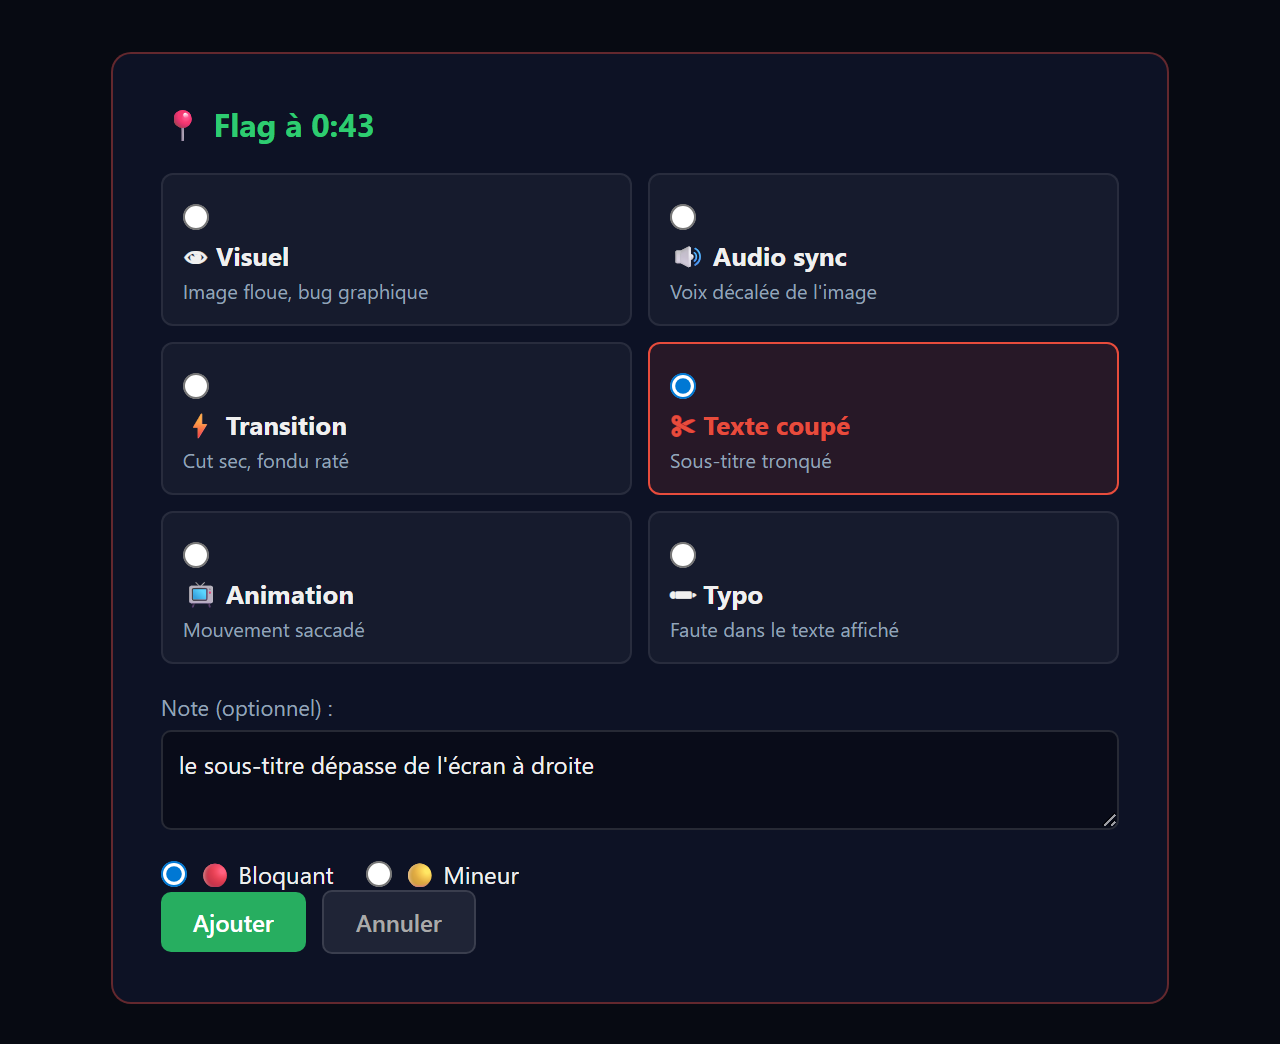
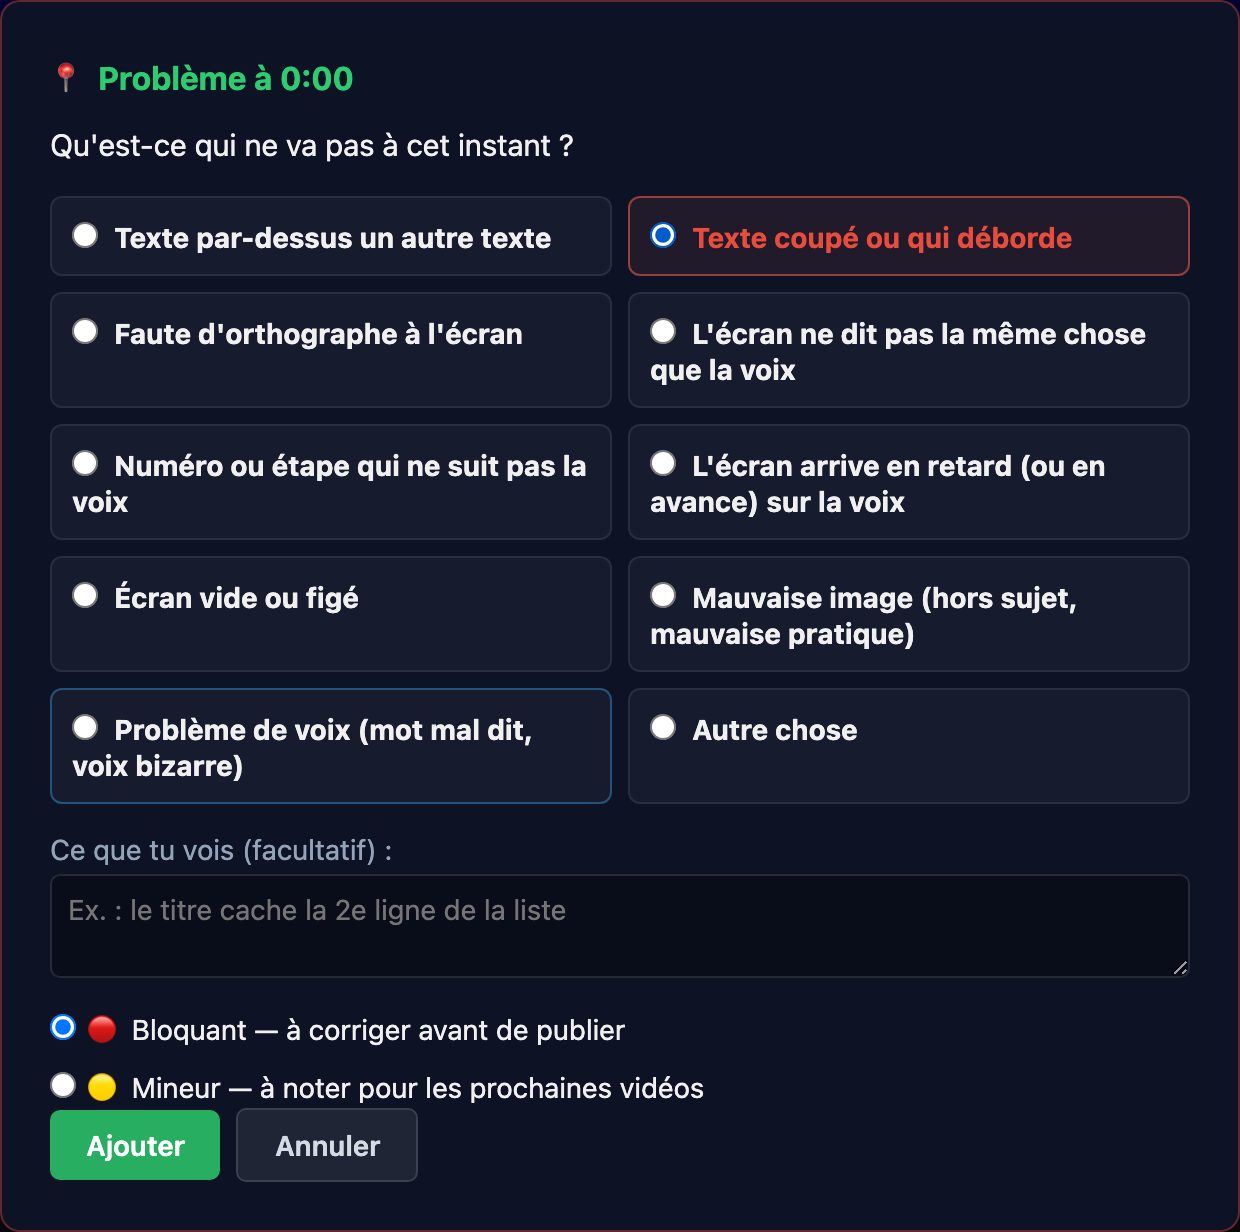
Guide a jour (bouton unique video, defauts concrets, bandeau Reessayer, plus de « Nicolas tranche ») + captures video refaites

diff --git a/guide.html b/guide.html
@@ -86,6 +86,18 @@
     sans avoir à écrire à Nicolas pour chaque détail. Garde-le à côté de toi les premières fois.
   </p>
 
+  <div class="callout green" id="nouveau">
+    <span class="ttl">Nouveau le 10 novembre 2026 — ce qui change pour toi :</span>
+    <ul style="margin:6px 0 0">
+      <li><strong>Vidéo : un seul bouton à la fin</strong>, <span class="k approve">✓ J'ai fini cette vidéo</span>. S'il n'y a aucun problème bloquant, la vidéo est approuvée ; s'il y en a, elle part à corriger tout de suite. Les boutons « Approuver » et « Renvoyer » n'existent plus.</li>
+      <li><strong>Vidéo : ton renvoi ne s'efface plus</strong> quand tu ajoutes un problème après coup. Il part avec le renvoi.</li>
+      <li><strong>Vidéo : des problèmes précis à choisir</strong> (texte par-dessus un autre, texte coupé, l'écran ne dit pas la même chose que la voix…). « Problème de voix » part directement côté voix.</li>
+      <li><strong>Voix : le texte est plus gros et plus clair</strong>, et ce que tu tapes dans la case de correction reste là même si tu cliques un autre mot.</li>
+      <li><strong>Plus de faux « Enregistré »</strong> : si la connexion coupe, un <strong>bandeau rouge reste en haut</strong> avec un bouton <strong>« Réessayer »</strong>. Ton travail reste sur la page tant que tu ne la fermes pas.</li>
+      <li>Après une approbation, un bouton <strong>« suivante → »</strong> t'amène à la prochaine leçon à réviser.</li>
+    </ul>
+  </div>
+
   <div class="toc">
     <a href="#quoi"><b>A.</b> C'est quoi, en 30 secondes</a>
     <a href="#rythme"><b>B.</b> À quel rythme l'utiliser</a>
@@ -108,9 +120,9 @@
   </ul>
   <p>
     Quand un mot sonne mal, tu ne fais plus juste « le signaler » : tu peux <strong>demander la correction
-    directement dans l'app</strong>. Le système la refait tout seul (en quelques minutes) et te montre un petit
-    badge quand c'est prêt. Pour les vrais changements de texte, c'est Nicolas qui tranche &mdash; mais tu n'as
-    rien de plus à faire, c'est noté automatiquement.
+    directement dans l'app</strong>. Le robot des corrections la refait tout seul et te montre un petit
+    badge quand c'est prêt. Si le robot ne peut pas la faire seul, le badge te dit ce que tu peux essayer
+    (souvent : « corriger la phrase ») ; sinon, passe à la suite, la demande est gardée.
   </p>
   <div class="callout green">
     <span class="ttl">En une phrase :</span> tu écoutes, tu cliques sur ce qui cloche, tu écris la bonne version,
@@ -134,7 +146,8 @@
   <div class="callout blue">
     <span class="ttl">Combien de temps ?</span> Une leçon dure en moyenne 2 à 5 minutes d'audio. Compte environ
     <strong>5 à 10 minutes</strong> pour la réviser : l'écouter en entier, flagger ce qui cloche, demander les corrections.
-    Une correction est habituellement prête en <strong>quelques minutes (max ~5)</strong>.
+    Le délai d'une correction dépend du robot : le badge t'indique quand il a donné signe de vie pour la dernière
+    fois. S'il dit que le robot <strong>ne répond plus</strong>, ta demande est quand même enregistrée : passe à la suite.
   </div>
 
   <!-- ============================================================ -->
@@ -155,9 +168,9 @@
     <li><strong>↻ Voix corrigées — à ré-écouter</strong> — des voix qui ont été refaites après tes flags : ré-écoute juste les phrases en vert pour confirmer que c'est bon maintenant.</li>
     <li><strong>🎙 Voix à réviser</strong> — des nouvelles voix à écouter et à flagger pour la première fois.</li>
     <li><strong>🎬 Vidéos à regarder</strong> — les vidéos finales à regarder au complet et approuver (ou refuser).</li>
-    <li><strong>⚙ Vidéos en production auto</strong> — tu viens d'approuver la voix, la vidéo se fabrique. Rien à faire : elle passera d'elle-même dans « Vidéos à regarder ». C'est là pour que tu voies ce qui s'en vient.</li>
+    <li><strong>⚙ Vidéos en production auto</strong> — tu viens d'approuver la voix, la vidéo se fabrique. Rien à faire : elle passera d'elle-même dans « Vidéos à regarder ». C'est là pour que tu voies ce qui s'en vient. Ces vidéos sont marquées <strong>« en fabrication »</strong> et ne comptent plus dans le chiffre « à faire » de l'onglet.</li>
     <li><strong>🔧 Vidéos en re-production</strong> — une vidéo que tu as refusée, ou dont la voix a changé. Elle se refait toute seule et te reviendra en nouvelle version.</li>
-    <li><strong>⏸ Quand une ligne orange dit « Bloquées »</strong> — le robot ne fait aucune vidéo d'une formation tant qu'une seule voix de cette formation attend encore ton écoute. Les voix en cause sont nommées : va les écouter dans « Révision audio », et les vidéos partent ensuite toutes seules. Une vidéo marquée « approuvée — décision requise » ne se refera jamais toute seule : tu l'as déjà approuvée, c'est à Nicolas de décider si on la refait.</li>
+    <li><strong>⏸ Quand une ligne orange dit « Bloquées »</strong> — le robot ne fait aucune vidéo d'une formation tant qu'une seule voix de cette formation attend encore ton écoute. Les voix en cause sont nommées : va les écouter dans « Révision audio », et les vidéos partent ensuite toutes seules. Une vidéo marquée « approuvée — décision requise » ne se refera jamais toute seule : tu l'as déjà approuvée. Rien à faire de ton côté : passe à la suite.</li>
   </ul>
   <p class="repere"><b>Depuis le 25 août : approuver une voix suffit.</b></p>
   <p>
@@ -178,7 +191,9 @@
     <li><strong style="color:#bb8fce">🎬 NOUVELLE v2 (ou v3...)</strong> — une nouvelle version de la vidéo a été produite depuis ton dernier passage. Regarde-la au complet comme si c'était la première fois : un bandeau orange en haut te rappelle quelle version tu avais vue avant.</li>
   </ul>
   <p>
-    Le chiffre dans la pastille = combien il en reste dans la file. Clique une ligne pour ouvrir la leçon.
+    Le chiffre dans la pastille = combien il te reste <strong>à faire</strong> (les vidéos en fabrication n'y sont pas).
+    Le cockpit se met à jour tout seul aux 2 minutes ; l'heure de la dernière mise à jour est sous les onglets.
+    Clique une ligne pour ouvrir la leçon.
     Quand une file est vide, il n'y a rien à faire de ce côté. Quand tout est vide : <strong>🎉 rien à réviser</strong>.
   </p>
   <p class="muted">
@@ -226,13 +241,23 @@
   </table>
   <div class="callout green">
     <span class="ttl">Astuce :</span> dans le doute, écris ce que tu voudrais entendre, à voix haute, en bon français.
-    Le système choisit la façon la plus sûre. S'il n'est pas certain, il passe la demande à Nicolas &mdash; tu n'as rien à faire.
+    Le système choisit la façon la plus sûre. S'il n'est pas certain, le badge te dit quoi essayer ; sinon, passe à la suite.
   </div>
 
-  <h3>Quand la voix répète ou bégaie — le bouton <span class="k repete">🔁 Se répète</span></h3>
+  <p class="muted">
+    Ce que tu tapes dans la case reste là, même si tu cliques un autre mot entre-temps ou si un mot passe au vert.
+  </p>
+
+  <h3>Changer toute une phrase — le crayon ✏</h3>
+  <p>
+    Clique le crayon ✏ au bout d'une phrase, choisis <strong>« Reformuler la phrase »</strong> : la phrase actuelle
+    est déjà écrite dans la case, corrige seulement ce qui ne va pas, puis <strong>« Envoyer la correction »</strong>.
+  </p>
+
+  <h3>Quand la voix répète ou bégaie — le bouton <span class="k repete">🔁 Re-générer</span></h3>
   <p>
     Parfois le texte est bon, mais la voix <strong>répète</strong> un mot ou bégaie (ex. « centre commercial… centre
-    commercial »). Dans ce cas, ne touche pas au texte : clique simplement <span class="k repete">🔁 Se répète</span>
+    commercial »). Dans ce cas, ne touche pas au texte : clique simplement <span class="k repete">🔁 Re-générer</span>
     sur le flag. Le système refait juste ce bout de phrase, sans rien changer aux mots. Tu n'as pas besoin de taper quoi que ce soit.
   </p>
 
@@ -260,17 +285,18 @@
     pas obligatoire &mdash; utilise-le si ça aide à expliquer.
   </p>
 
-  <h3>Approuver la voix — le bouton <span class="k approve">✓ Approuver la voix</span></h3>
+  <h3>Approuver la voix — le bouton <span class="k approve">✓ Approuver la leçon</span></h3>
   <p>
     Quand tu as écouté toute la leçon et que la voix est bonne (ou que toutes tes corrections sont faites), clique
-    <span class="k approve">✓ Approuver la voix</span>. La leçon quitte ta file et avance vers la production de la vidéo.
-    C'est ton feu vert.
+    <span class="k approve">✓ Approuver la leçon</span>. La leçon quitte ta file et avance vers la production de la vidéo.
+    C'est ton feu vert. Le message <strong>« ✓ Leçon approuvée »</strong> n'apparaît qu'une fois le serveur d'accord ;
+    un bouton <strong>« Voix suivante à réviser → »</strong> apparaît alors pour continuer.
   </p>
 
   <!-- ============================================================ -->
   <h2 id="badges">3. Les badges de statut</h2>
   <p>
-    Après un <span class="k corriger">Corriger</span> ou un <span class="k repete">🔁 Se répète</span>, un badge
+    Après un <span class="k corriger">Corriger</span> ou un <span class="k repete">🔁 Re-générer</span>, un badge
     apparaît à droite du flag et se met à jour tout seul. Voici les quatre que tu verras :
   </p>
 
@@ -280,62 +306,74 @@
   </figure>
 
   <ul>
-    <li><strong style="color:#b8730f">⏳ En attente</strong> — ta demande est reçue, elle s'en vient.</li>
+    <li><strong style="color:#b8730f">✓ Envoyée — en file</strong> — ta demande est reçue. Le badge dit quand le robot des corrections a donné signe de vie (ex. « il y a 2 min »). S'il dit <strong>« ne répond plus »</strong>, la demande partira à son retour : passe à la suite.</li>
     <li><strong style="color:#2871b3">⚙ En cours…</strong> — la voix est en train d'être regénérée.</li>
     <li><strong style="color:#1a8a4f">✅ Corrigé</strong> (avec la date) — c'est fait ! Ré-écoute la nouvelle version.</li>
     <li><strong style="color:#8b46c9">✏ / 🎵 Un geste à faire</strong> — le badge te dit quoi faire : écrire le son dans la grande case, essayer le mot dans l'<strong>Atelier</strong>, ou <strong>corriger la phrase</strong>.</li>
-    <li><strong style="color:#8b46c9">⏸ En attente d'une décision de Nicolas</strong> — un cas qui dépend du sens : Nicolas tranche. Rien à faire, passe à la suite.</li>
+    <li><strong style="color:#8b46c9">⏸ Mise de côté</strong> — le robot n'a pas pu la faire seul. Essaie « ✏ corriger la phrase » en réécrivant la phrase ; sinon, passe à la suite, la demande est gardée.</li>
   </ul>
   <p>
     Tu peux fermer l'app et revenir plus tard : le badge sera à jour. Si jamais tu vois
-    <strong style="color:#b3261e">⚠ Erreur</strong>, re-clique simplement <span class="k corriger">Corriger</span> ;
-    si ça revient, écris à Nicolas.
+    <strong style="color:#b3261e">⚠ Erreur</strong>, re-clique simplement <span class="k corriger">Corriger</span>.
   </p>
   <div class="callout">
     <span class="ttl">Lis le badge : souvent, c'est toi qui peux régler.</span> Un mot mal dit qui revient dans beaucoup
     de leçons se règle dans l'<strong>Atelier</strong> (tu écoutes les versions et tu choisis). Un mot très courant
-    (le, qui, ton…) se règle en reformulant la phrase. Seuls les cas « ⏸ En attente » attendent Nicolas.
+    (le, qui, ton…) se règle en reformulant la phrase.
   </div>
 
   <!-- ============================================================ -->
   <h2 id="video">4. Valider une vidéo</h2>
   <p>
-    Quand la voix d'une leçon est approuvée, Nicolas produit la vidéo finale. Elle t'arrive dans la file
-    <strong>🎬 Vidéos à valider</strong>. Clique-la pour l'ouvrir :
+    Quand la voix d'une leçon est approuvée, la vidéo se fabrique toute seule. Elle t'arrive dans l'onglet
+    <strong>🎬 Révision vidéo</strong>. Clique-la pour l'ouvrir :
   </p>
 
   <figure>
-    <img src="img/video.png" alt="Écran de validation d'une vidéo">
-    <figcaption>L'écran de validation d'une vidéo : le lecteur, la barre de temps avec tes repères, et la liste des problèmes.</figcaption>
+    <img src="img/video.png" alt="Écran de révision d'une vidéo">
+    <figcaption>La page vidéo : le lecteur, la barre de temps avec tes repères, la liste des problèmes notés et le bouton de fin.</figcaption>
   </figure>
 
-  <h3>Regarder et marquer un problème — le bouton <span class="k addflag">📍 ADD FLAG ICI</span></h3>
+  <h3>Noter un problème — le bouton <span class="k addflag">📍 Problème ici</span></h3>
   <p>
-    Regarde la vidéo. Si un moment cloche (texte coupé, image, son décalé, faute à l'écran, transition ratée…),
-    clique <span class="k addflag">📍 ADD FLAG ICI</span> <strong>au bon moment</strong>. Une petite fenêtre s'ouvre
-    pour préciser le type de problème :
+    Regarde la vidéo. Quand un moment cloche, clique <span class="k addflag">📍 Problème ici</span> (ou la touche
+    <code>F</code>) <strong>au bon moment</strong>. La vidéo s'arrête et une fenêtre te demande ce qui ne va pas :
   </p>
 
   <figure class="narrow">
-    <img src="img/addflag.png" alt="Fenêtre d'ajout d'un flag vidéo">
-    <figcaption>Choisis la catégorie, ajoute une note, indique si c'est bloquant ou mineur, puis « Ajouter ».</figcaption>
+    <img src="img/addflag.png" alt="Fenêtre pour noter un problème vidéo">
+    <figcaption>Choisis le problème, décris ce que tu vois si ça aide, dis si c'est bloquant ou mineur, puis « Ajouter ».</figcaption>
   </figure>
 
+  <ul>
+    <li><strong>Texte par-dessus un autre texte</strong>, <strong>texte coupé ou qui déborde</strong>, <strong>faute d'orthographe à l'écran</strong>.</li>
+    <li><strong>L'écran ne dit pas la même chose que la voix</strong>, <strong>numéro ou étape qui ne suit pas la voix</strong>, <strong>l'écran arrive en retard (ou en avance) sur la voix</strong>.</li>
+    <li><strong>Écran vide ou figé</strong>, <strong>mauvaise image</strong> (hors sujet, mauvaise pratique).</li>
+    <li><strong>Problème de voix</strong> (mot mal dit, voix bizarre) : ça ne rejette pas la vidéo, ça part <strong>côté voix</strong>.
+      L'app te propose la phrase dite à ce moment ; choisis la bonne et dis ce qui cloche (quel mot, comment il devrait sonner).
+      Tes demandes de voix apparaissent sous la liste, avec leur état.</li>
+    <li><strong>Autre chose</strong> : décris-le dans la case (obligatoire).</li>
+  </ul>
   <p>
-    Chaque flag apparaît ensuite sous la vidéo avec son temps (ex. <strong>0:43</strong>) et sa catégorie. Tu peux en
-    mettre plusieurs. Un repère apparaît aussi sur la barre de temps pour retrouver le moment facilement.
+    <strong>Bloquant</strong> = à corriger avant de publier. <strong>Mineur</strong> = à noter pour les prochaines vidéos,
+    sans bloquer celle-ci. Chaque problème apparaît sous la vidéo avec son temps (ex. <strong>0:43</strong>) et un repère
+    sur la barre de temps. Tout se sauvegarde tout seul 2 secondes après chaque changement.
   </p>
 
-  <h3>Décider — <span class="k approve">✓ Approuver</span> ou <span class="k renvoyer">↻ Renvoyer pour correction</span></h3>
+  <h3>Finir — le bouton <span class="k approve">✓ J'ai fini cette vidéo</span></h3>
   <ul>
-    <li>Si tout est bon → <span class="k approve">✓ Approuver</span>. La leçon est prête pour le déploiement.</li>
-    <li>Si quelque chose ne va pas → <span class="k renvoyer">↻ Renvoyer pour correction</span>. Tes moments
-      flaggés + ta raison partent à Nicolas ; il refait la vidéo, et elle te revient dans
-      <strong>Vidéos à valider</strong> pour que tu vérifies la nouvelle version.</li>
+    <li><strong>Aucun problème bloquant</strong> → la vidéo est <strong>approuvée</strong>.</li>
+    <li><strong>Au moins un problème bloquant</strong> → la vidéo part <strong>à corriger</strong>, avec ta liste. Tu peux
+      ajouter un résumé (facultatif). Une nouvelle version te reviendra ici.</li>
   </ul>
+  <p>
+    Sous les boutons, une ligne te dit toujours où tu en es (« revue en cours », « à corriger », « approuvée »).
+    Une vidéo renvoyée reste renvoyée même si tu ajoutes un problème après : il part avec le renvoi.
+    Un bouton <strong>« Vidéo suivante à réviser → »</strong> apparaît quand tu as fini.
+  </p>
   <div class="callout blue">
-    <span class="ttl">Petit truc :</span> avant de renvoyer, ajoute au moins un flag au moment du problème. Ça dit
-    exactement à Nicolas <em>où</em> regarder, pas juste <em>quoi</em>.
+    <span class="ttl">Si la connexion coupe :</span> la page ne recharge pas et ne fait pas semblant. Un bandeau rouge
+    reste en haut avec <strong>« Réessayer »</strong> ; tant que la page reste ouverte, rien n'est perdu.
   </div>
 
   <!-- ============================================================ -->
@@ -343,23 +381,24 @@
   <ul>
     <li>Une correction = un mot ou un bout de phrase. Si deux mots sonnent mal, fais deux corrections.</li>
     <li>Écoute la leçon <strong>au complet</strong> avant d'approuver &mdash; même si tu n'as flaggé qu'un mot au début.</li>
-    <li>La voix <strong>répète</strong> un mot ? → <span class="k repete">🔁 Se répète</span> (pas besoin de réécrire le texte).</li>
+    <li>La voix <strong>répète</strong> un mot ? → <span class="k repete">🔁 Re-générer</span> (pas besoin de réécrire le texte).</li>
     <li>Une correction déjà faite est <strong>encore</strong> mauvaise ? → <span class="k mal">⚠ Mal corrigé</span>.</li>
     <li>Pas besoin d'attendre devant l'écran : les badges se rafraîchissent seuls.</li>
-    <li>Pour une vidéo, mets un flag <strong>au moment</strong> du problème avant de la renvoyer.</li>
+    <li>Pour une vidéo, note chaque problème <strong>au moment</strong> où il arrive, puis clique « J'ai fini cette vidéo ».</li>
   </ul>
 
   <!-- ============================================================ -->
   <h2 id="bloque">6. Si ça bloque</h2>
   <ul>
+    <li><strong>Bandeau rouge en haut</strong> (« Pas pu… ») → vérifie ton internet, puis clique <strong>« Réessayer »</strong>. Il disparaît tout seul quand ça passe. Ne ferme pas la page avant.</li>
     <li>Badge <strong style="color:#b3261e">⚠ Erreur</strong> → re-clique <span class="k corriger">Corriger</span>. Si ça revient, écris à Nicolas.</li>
-    <li>Un badge reste <strong>⏳ En attente</strong> très longtemps (plus de ~15 min) → préviens Nicolas, le système est peut-être arrêté.</li>
+    <li>Le badge dit que le robot des corrections <strong>ne répond plus</strong> → ta demande est enregistrée ; continue tes autres leçons, et préviens Nicolas si ça dure plus d'une demi-journée.</li>
     <li>Tu ne retrouves pas une leçon → reviens au cockpit ; elle a peut-être changé de file (ex. voix approuvée → passée aux vidéos).</li>
-    <li>Un doute sur quoi écrire dans une correction → écris-le en bon français comme tu le dirais, et envoie. Le pire cas, ça part à Nicolas.</li>
+    <li>Un doute sur quoi écrire dans une correction → écris-le en bon français comme tu le dirais, et envoie. Si le robot ne peut pas, le badge te dira quoi essayer.</li>
   </ul>
 
   <div class="footer">
-    XGuard Académie — App de review des voix et des vidéos · Guide pour Hela · Mis à jour le 2 juin 2026 ·
+    XGuard Académie — App de review des voix et des vidéos · Guide pour les réviseuses · Mis à jour le 10 novembre 2026 ·
     Des questions ? Écris à Nicolas.
   </div>
 

diff --git a/lib/review-logic.js b/lib/review-logic.js
@@ -500,7 +500,7 @@
     if (VM.duration_seconds)
       parts.push('Duree : <strong>' + esc(fmtTime(VM.duration_seconds)) + '</strong>');
     if (VM.produced_by) parts.push('Source : <strong>' + esc(VM.produced_by) + '</strong>');
-    parts.push('Voix : <strong style="color:#27AE60">✓ approuvee</strong>');
+    parts.push('Voix : <strong style="color:#27AE60">✓ approuvée</strong>');
     return parts.join('<span class="sep">·</span>');
   }
 
